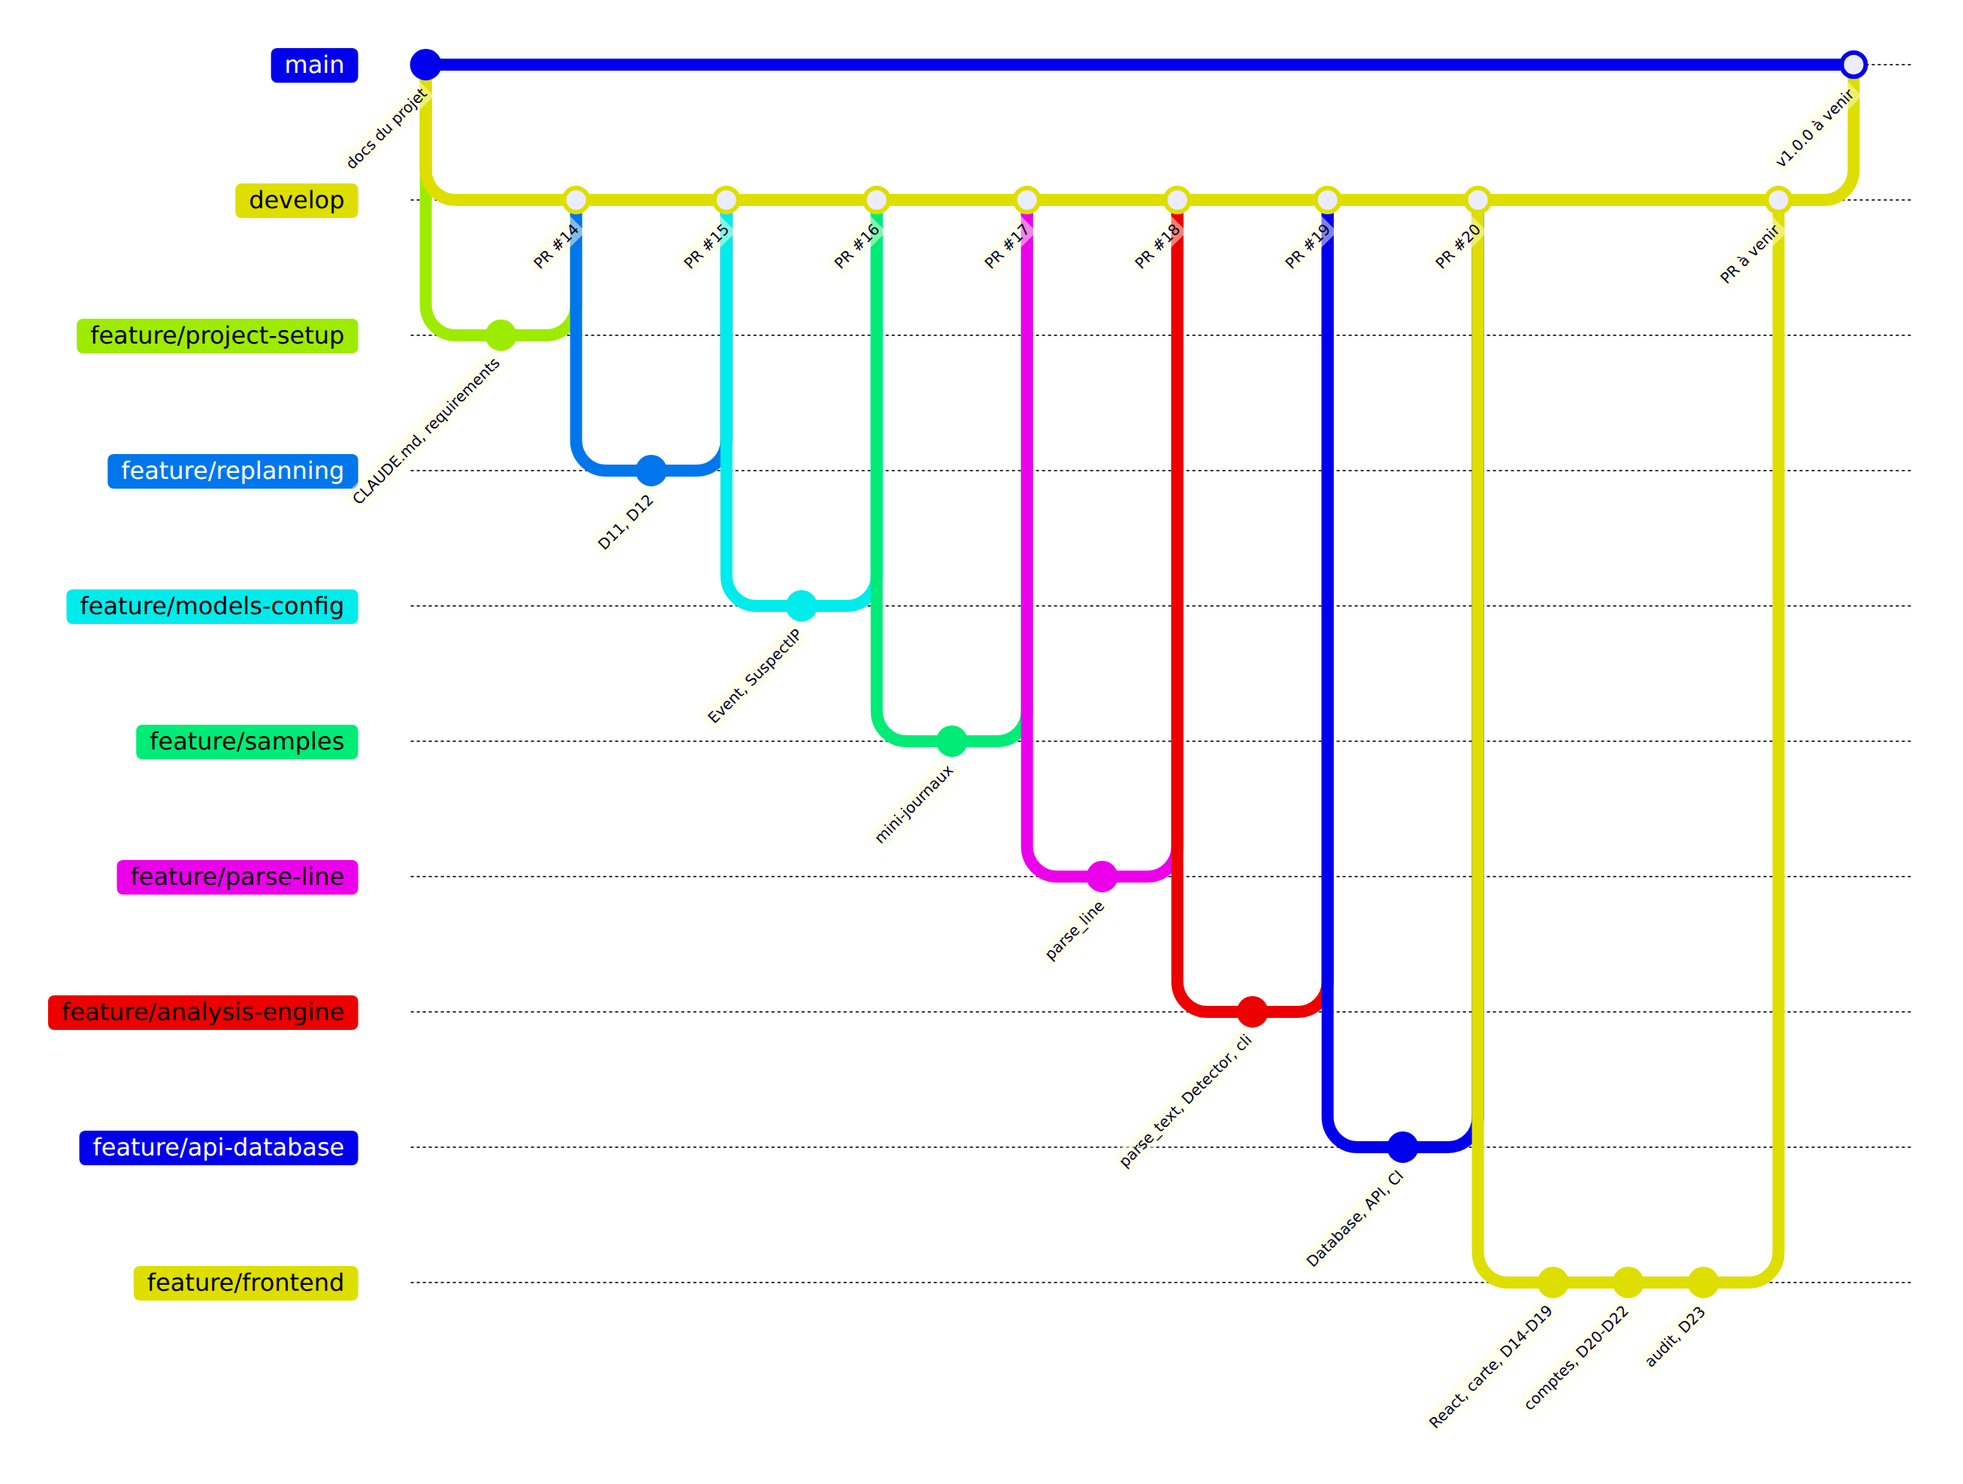
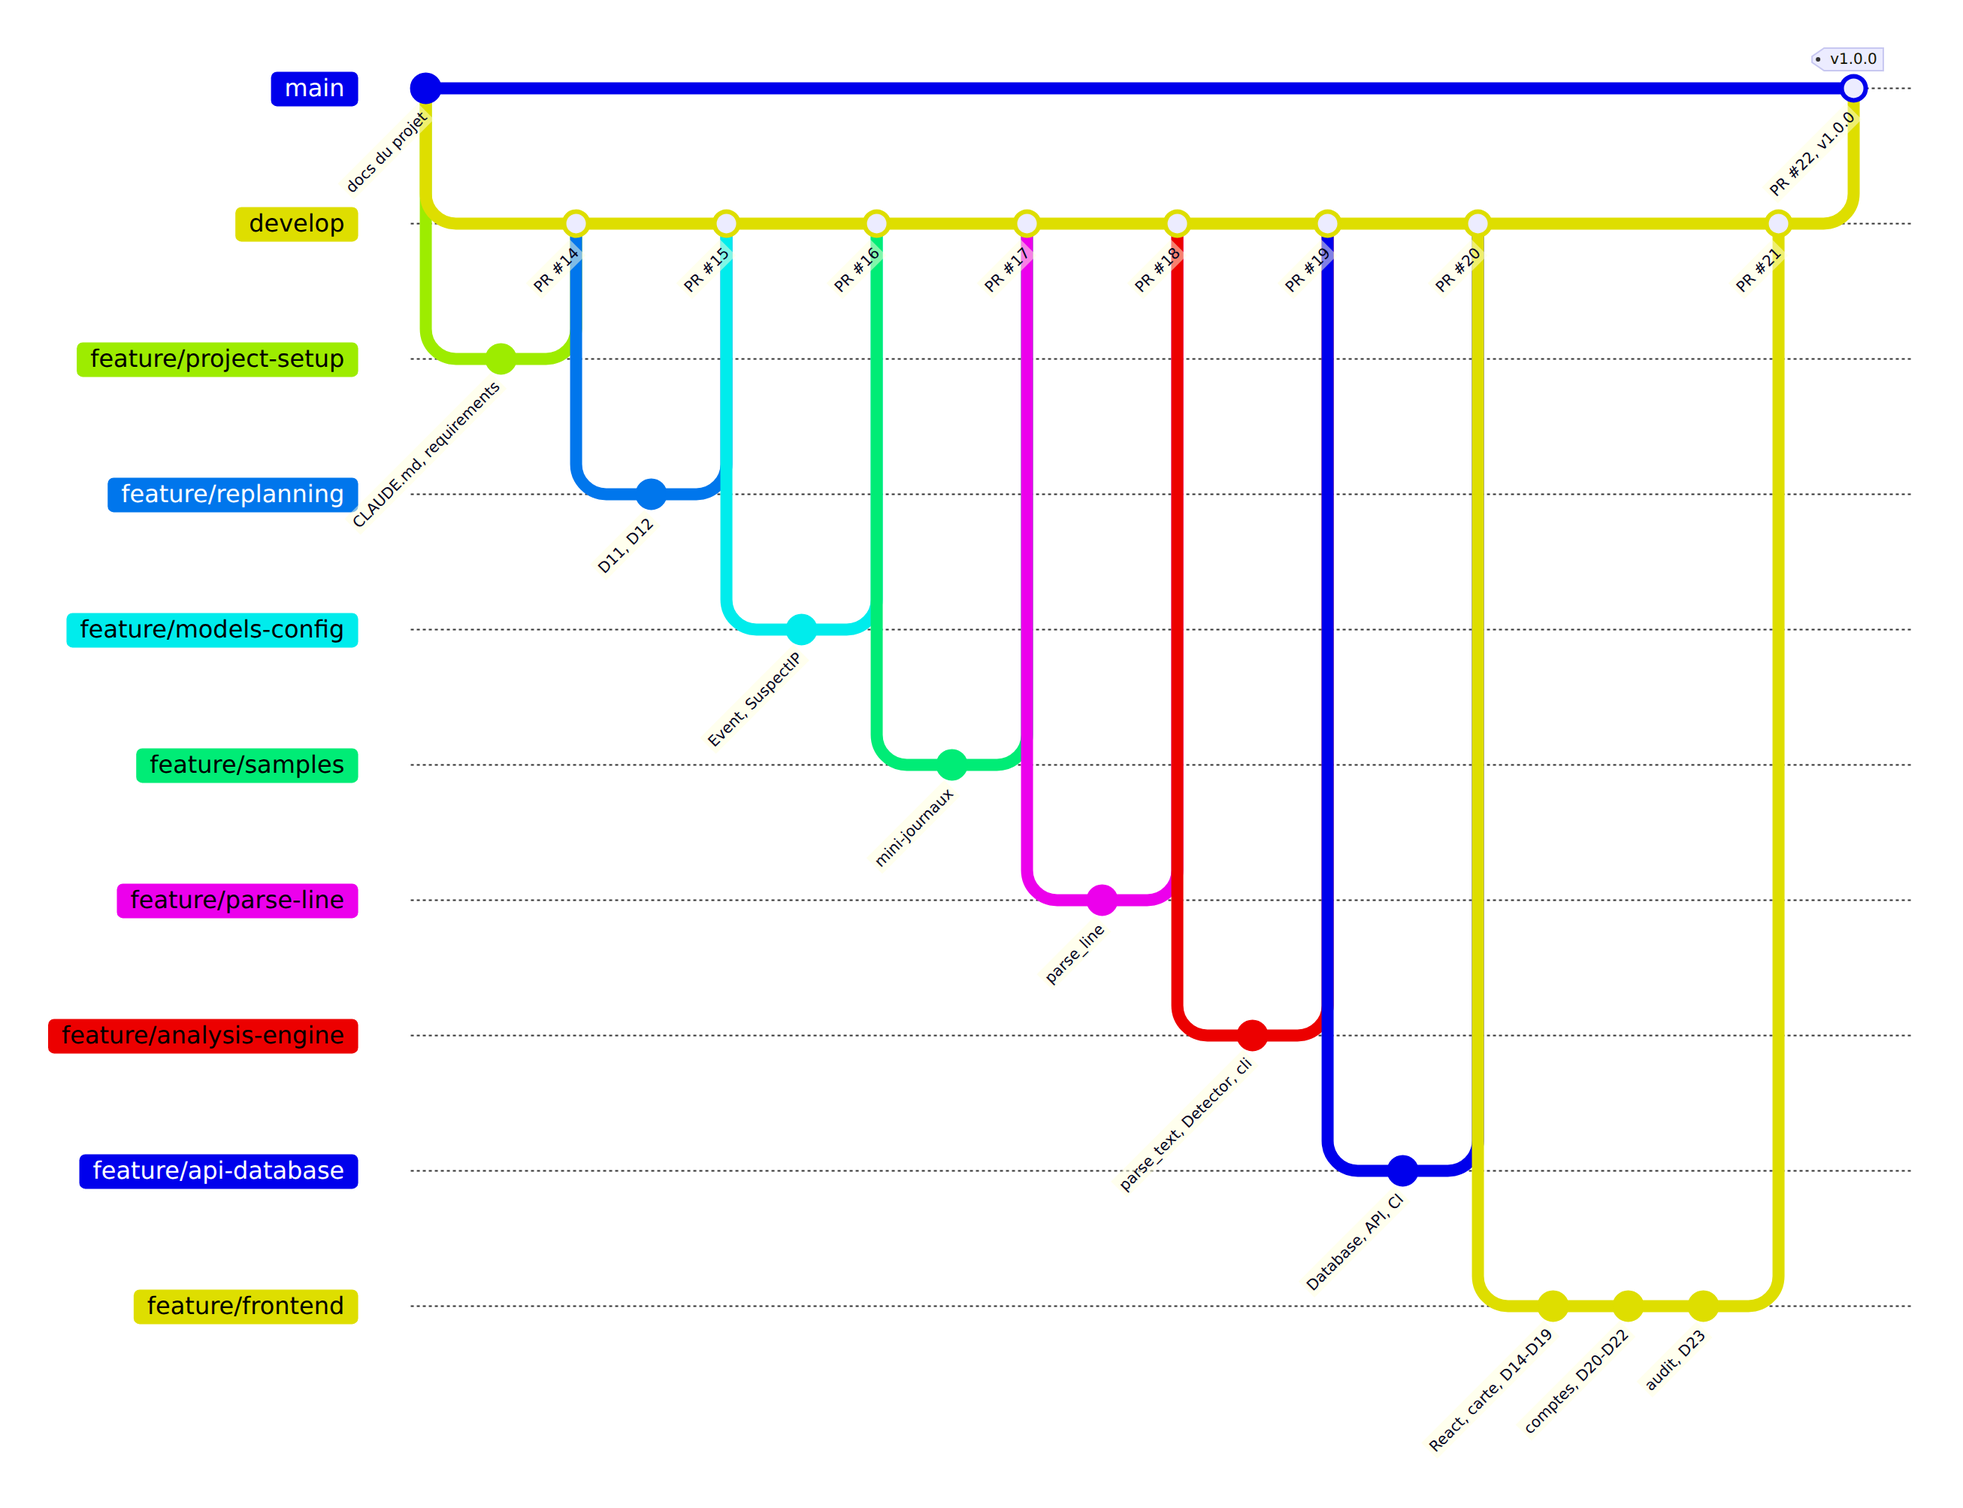
docs: align docs with v1.0.0 and present SentinelSSH as a complement to fail2ban

diff --git a/docs/decisions.md b/docs/decisions.md
@@ -4,12 +4,12 @@ Chaque décision importante est notée ici, avec les options envisagées et la r
 
 | ID | Date | Décision | Options envisagées | Raison |
 |---|---|---|---|---|
-| D1 | 29/09/2026 | Idée retenue : SentinelSSH | Les 6 idées du Stage 1 | Meilleur score (26/30) ; défensif, complet, différent de fail2ban |
+| D1 | 29/09/2026 | Idée retenue : SentinelSSH | Les 6 idées du Stage 1 | Meilleur score (26/30) ; défensif, complet, complémentaire de fail2ban (fail2ban exécute le blocage, SentinelSSH analyse et explique) |
 | D2 | 29/09/2026 | Analyse à la demande | Temps réel | Faisable en 4 semaines ; le temps réel passe en version future |
 | D3 | 29/09/2026 | Front-end en React (Vite) | HTML/CSS simple, Vue | Technologie JavaScript exigée ; standard le plus répandu |
 | D4 | 29/09/2026 | Back-end en Python/Flask | Node.js/Express, FastAPI, Django | Langage le mieux maîtrisé pour le cœur ; Flask est le plus léger |
 | D5 | 29/09/2026 | Base de données SQLite | PostgreSQL, MongoDB | Usage local, un seul utilisateur, données reliées |
-| D6 | 29/09/2026 | Blocage suggéré, pas automatique | Blocage automatique par iptables | Pas de droits root ; décision humaine ; différence avec fail2ban |
+| D6 | 29/09/2026 | Blocage suggéré, pas automatique | Blocage automatique par iptables | Pas de droits root ; décision humaine ; complète fail2ban, qui exécute le blocage en direct, au lieu de le refaire |
 | D7 | 30/09/2026 | Connexion par un compte administrateur unique | Aucune connexion, plusieurs comptes | Application sécurisée attendue par le titre RNCP ; reste simple |
 | D8 | 30/09/2026 | Mise en production locale avec Gunicorn | Serveurs de développement, Docker | Compétence « déploiement » ; une seule commande pour la démo |
 | D9 | 01/10/2026 | Back-end organisé en classes | Fonctions dans des modules | Consigne du Stage 3 ; une responsabilité par classe ; tests plus simples |
@@ -26,7 +26,7 @@ Chaque décision importante est notée ici, avec les options envisagées et la r
 | D20 | 28/10/2026 | SentinelSSH devient un site multi-comptes : inscription libre (nom + mot de passe de 12 caractères minimum, sans e-mail ni confirmation), chaque compte ne voit que ses analyses et ses récidivistes. Table `roles` (`admin`, `user`) ; `users.role_id` (chaque compte a un seul rôle) ; `analyses.user_id` avec `ON DELETE CASCADE`. L'administrateur gère les comptes (liste, suppression des comptes `user`) mais ne voit pas leurs analyses ; un compte admin ne peut pas être supprimé par l'API ; il n'est créé que par `flask create-admin`. Un `user` peut supprimer son compte (mot de passe redemandé). Noms uniques sans tenir compte des majuscules (`COLLATE NOCASE`), mot de passe de 12 à 128 caractères. Tentatives limitées par IP (5 échecs de connexion en 15 min, 5 inscriptions par heure, en mémoire). Remplace D7 et D15 ; la mise en ligne (serveur, HTTPS) reste à venir | Garder un administrateur unique (D7) ; admin qui voit toutes les analyses ; inscription avec e-mail et confirmation ; rôle stocké en texte dans `users` | L'objectif du projet est un site où chacun dépose son journal et profite des analyses. La sécurité repose sur un filtre `WHERE user_id = ?` dans chaque requête (une analyse d'un autre compte répond 404, comme un id inconnu). Pas d'e-mail : une donnée personnelle de moins à protéger (minimisation RGPD). Une table `roles` garantit par une clé étrangère qu'un compte a toujours un rôle valide. L'admin qui ne voit pas les analyses applique la minimisation : gérer un compte ne demande pas de lire ses données. Le compte est relu à chaque requête : un compte supprimé perd l'accès tout de suite. Ajouts après la revue de code : sans limite haute, un mot de passe de 40 Mo serait haché (déni de service) ; `Admin` pourrait imiter `admin` ; un admin pourrait effacer un autre admin et ses analyses ; un outil anti-force-brute doit se protéger lui-même de la force brute (compteurs en mémoire : simples, sans dépendance, suffisants avant la mise en ligne) |
 | D21 | 28/10/2026 | Profils de compte. Onglet « Mon compte » (`/compte`) pour le user ; pour l'admin, onglet « Comptes » (`/comptes`) où son compte est séparé en haut, puis la liste ; profil d'un user vu par l'admin à `/comptes/<id>`. Chacun modifie son nom et son mot de passe (`PATCH /api/auth/me`, ancien mot de passe redemandé) ; seul un user supprime son compte. L'admin change le nom, réinitialise le mot de passe et supprime le compte d'un user (`PATCH`/`DELETE /api/users/<id>`) et peut supprimer une de ses analyses sans la lire (`DELETE /api/users/<id>/analyses/<id>`) ; il n'en voit que la date et le nom du fichier, jamais le mot de passe. Un compte admin ne se gère jamais par `/api/users` (403). Ids des comptes et des analyses en UUID (uuid4) ; colonne `users.updated_at` | Suppression du compte sur la page d'analyse ; admin qui lit les analyses ; ids entiers ; `updated_at` sur toutes les tables ; 4 routes séparées pour le nom et le mot de passe | Une page « compte » rassemble ce qui concerne le compte (au lieu d'un bloc perdu sous l'analyse). L'admin doit pouvoir aider (renommer, réinitialiser, supprimer à la demande) sans accéder aux données : minimisation RGPD. Redemander l'ancien mot de passe empêche de voler un compte depuis une session ouverte ; ses échecs comptent dans la limite de connexion. Un UUID ne se devine pas et ne révèle pas le nombre de comptes ou d'analyses (en plus du filtre `user_id`) ; il supprime aussi le cas `SQLITE_MAX_INT`. `updated_at` seulement sur `users` : une analyse n'est jamais modifiée. `PATCH` = modifier une partie d'une ressource : une route au lieu de quatre |
 | D22 | 28/10/2026 | Sécurité avant la mise en ligne. **Session** : on garde la session signée de Flask (pas de JWT) ; sa durée de vie est lue dans `.env` (`SESSION_LIFETIME_MINUTES`, 60 min sans requête) ; elle est refusée si le nom ou le mot de passe a changé depuis son ouverture (`logged_at` comparé à `users.updated_at`, dates à la milliseconde). **CORS** : flask-cors sur `/api/*`, seulement les origines de `CORS_ORIGINS` (`.env`), cookie compris. **Base chiffrée** : SQLCipher (`sqlcipher3`), clé de 64 caractères hexadécimaux dans un fichier hors du dépôt (`DB_KEY_FILE`), que seul l'administrateur du serveur détient ; sans clé ou avec une mauvaise, le site refuse de démarrer. Exception à la règle « SQL paramétré » : `PRAGMA key` n'accepte pas `?`, la clé est donc écrite dans la commande, mais seulement après avoir vérifié qu'elle fait exactement 64 caractères 0-9 a-f | JWT dans un cookie HttpOnly ; JWT dans l'en-tête `Authorization` (localStorage) ; pas de CORS ; clé de la base écrite dans `.env` ; chiffrer seulement certaines colonnes | La session Flask est déjà un jeton signé (HMAC, itsdangerous) dans un cookie HttpOnly : un JWT y mettrait le même contenu avec la même signature ; son seul atout, un format lisible par d'autres programmes, ne sert pas ici. Le vrai manque était la durée de vie et la révocation : une session ouverte restait valide après une réinitialisation du mot de passe par l'admin. Le front et l'API ont la même origine (proxy Vite, puis Flask sert le front) : CORS ne sert qu'à autoriser explicitement un front ailleurs ; sans en-tête, le navigateur bloque tout le reste. Le chiffrement protège la base copiée seule (sauvegarde, disque, dépôt par erreur) : noms, dates et IP (données personnelles, RGPD) deviennent illisibles ; les mots de passe étaient déjà hachés. La clé hors du dépôt et hors de `.env` ne part jamais avec le code. Limite : sur le serveur en marche, la clé est en mémoire, le chiffrement ne protège pas d'une prise de contrôle du serveur |
-| D23 | 29/10/2026 | Audit complet. **Lecture du journal** : le nom d'utilisateur est libre ; l'IP est le dernier « from <IP> port <n> » de la ligne et doit être une vraie IP (module `ipaddress`). **Envoi** : un fichier vide, ou sans aucune tentative de connexion SSH, est refusé (400, rien d'enregistré) ; UTF-16 et BOM lus. **API** : un corps JSON qui n'est pas un objet répond 400. **Stockage** : comptes visés en JSON. **Compte** : renommer son compte redemande aussi le mot de passe actuel ; `create-admin` applique les règles de l'inscription | Garder `(\S+)` ; enregistrer une analyse vide avec le verdict « rien de suspect » ; refuser l'UTF-16 | L'attaquant choisit le nom d'utilisateur, que sshd écrit tel quel : avec le nom « x from 8.8.8.8 port 22 », l'ancien parser accusait 8.8.8.8 et proposait de la bloquer (usurpation, faille connue de fail2ban) ; un nom avec une espace rendait même l'attaque invisible. sshd écrit la vraie IP en dernier : `(.*)` gourmand la trouve. Un « rien de suspect » sur un mauvais fichier donnerait un faux sentiment de sécurité. PowerShell enregistre en UTF-16. Une virgule dans un nom le coupait en deux à l'affichage. Avec une session laissée ouverte, n'importe qui pouvait renommer le compte : son propriétaire ne connaissait plus son nom de connexion. Coût mesuré : 50 Mo lus en 4,6 s au lieu de 3,9 s |
+| D23 | 29/10/2026 | Audit complet. **Lecture du journal** : le nom d'utilisateur est libre ; l'IP est le dernier « from <IP> port <n> » de la ligne et doit être une vraie IP (module `ipaddress`). **Envoi** : un fichier vide, ou sans aucune tentative de connexion SSH, est refusé (400, rien d'enregistré) ; UTF-16 et BOM lus. **API** : un corps JSON qui n'est pas un objet répond 400. **Stockage** : comptes visés en JSON. **Compte** : renommer son compte redemande aussi le mot de passe actuel ; `create-admin` applique les règles de l'inscription | Garder `(\S+)` ; enregistrer une analyse vide avec le verdict « rien de suspect » ; refuser l'UTF-16 | L'attaquant choisit le nom d'utilisateur, que sshd écrit tel quel : avec le nom « x from 8.8.8.8 port 22 », l'ancien parser accusait 8.8.8.8 et proposait de la bloquer (usurpation d'IP) ; un nom avec une espace rendait même l'attaque invisible. sshd écrit la vraie IP en dernier : `(.*)` gourmand la trouve. Un « rien de suspect » sur un mauvais fichier donnerait un faux sentiment de sécurité. PowerShell enregistre en UTF-16. Une virgule dans un nom le coupait en deux à l'affichage. Avec une session laissée ouverte, n'importe qui pouvait renommer le compte : son propriétaire ne connaissait plus son nom de connexion. Coût mesuré : 50 Mo lus en 4,6 s au lieu de 3,9 s |
 | D24 | 30/10/2026 | Parsers OpenSSH rangés par version, avec repli de la plus récente à la plus ancienne : écartés pour la v1.0, notés comme évolution dans le README | Un dossier par version d'OpenSSH (`backend/features/logs_analysis/openssh/<version>/`), essayé du plus récent au plus ancien | Idée d'un ami développeur, pour être prêt si OpenSSH change son format. La version d'OpenSSH n'est pas écrite dans `auth.log`, d'où le repli. Mais le message lu (`Failed password for … from … port …`) n'a pas changé ; le seul changement récent (OpenSSH 9.8 : `sshd-session[…]` au lieu de `sshd[…]`) est déjà lu, car le parser ne regarde pas le nom du programme. Il n'y aurait donc qu'une version à ranger. Déplacer le parser 2 jours avant la revue changerait l'architecture à expliquer, sans corriger de bug : dépasse le MVP. Piste pour le RNCP |
 
 <!-- Ajouter une ligne à chaque décision qui change le périmètre, une technologie ou le planning. -->

diff --git a/README.md b/README.md
@@ -123,7 +123,7 @@ Diagramme et cardinalités : [docs/diagrammes.md](docs/diagrammes.md#base-de-don
 | Production | Gunicorn |
 | Qualité | pytest, pytest-cov, pycodestyle, ESLint, GitHub Actions, Postman |
 
-Chaque choix est justifié dans le [journal des décisions](docs/decisions.md) (D1 à D23).
+Chaque choix est justifié dans le [journal des décisions](docs/decisions.md) (D1 à D24).
 
 ## Installation (développement)
 
@@ -269,10 +269,10 @@ HTTPS) n'est pas encore prévue.
 
 ## Organisation du projet
 
-- **Branches** : `main` (stable, protégée ; recevra `develop` avec le tag `v1.0.0`), `develop` (intégration), `feature/…`
+- **Branches** : `main` (stable, protégée ; a reçu `develop` le 02/11, tag `v1.0.0`), `develop` (intégration), `feature/…`
   et `fix/…` (une par tâche). Schéma : [docs/diagrammes.md](docs/diagrammes.md#branches-git).
 - **Pull Requests** relues avec une checklist, **CI** GitHub Actions à chaque push.
-- **Sprints** d'une semaine : [plan des sprints](docs/sprints/sprint-planning.md), revues et rétrospectives dans `docs/sprints/`.
+- **Sprints** d'une semaine : [plan des sprints](docs/sprints/sprint-planning.md) ; chaque Pull Request décrit ce qu'elle change, et les PR #21 et #22 (v1.0.0) ont une section « Standup » (fait, appris, décisions, difficultés, suite) ; modèles de revue et de rétrospective dans `docs/sprints/`.
 - **Suivi** : GitHub Projects (kanban), issues et milestones ; bugs avec le label `bug`.
 - **Décisions** : [journal des décisions](docs/decisions.md).
 - **Documents du projet** : `docs/stages/` (Stages 1 à 4, conception complète).
@@ -296,7 +296,7 @@ HTTPS) n'est pas encore prévue.
 |---|---|
 | [docs/api.md](docs/api.md) | Les 16 routes : corps, réponses, erreurs |
 | [docs/diagrammes.md](docs/diagrammes.md) | Cas d'utilisation, architecture, base, classes, séquences, CI, branches, production (PNG dans `docs/images/`) |
-| [docs/decisions.md](docs/decisions.md) | Journal des décisions D1 à D23, avec les options écartées |
+| [docs/decisions.md](docs/decisions.md) | Journal des décisions D1 à D24, avec les options écartées |
 | [docs/testing/test-report.md](docs/testing/test-report.md) | Rapport de tests et audit complet (§12) |
 | [docs/testing/sentinelssh.postman_collection.json](docs/testing/sentinelssh.postman_collection.json) | Collection Postman |
 | [docs/sprints/sprint-planning.md](docs/sprints/sprint-planning.md) | Plan des sprints |

diff --git a/docs/diagrammes.md b/docs/diagrammes.md
@@ -417,14 +417,14 @@ gitGraph
     commit id: "comptes, D20-D22"
     commit id: "audit, D23"
     checkout develop
-    merge feature/frontend id: "PR à venir"
+    merge feature/frontend id: "PR #21"
     checkout main
-    merge develop id: "v1.0.0 à venir"
+    merge develop id: "PR #22, v1.0.0" tag: "v1.0.0"
 ```
 
-- `main` : stable, protégée ; elle recevra `develop` à la fin, avec le tag `v1.0.0`.
-- `develop` : intégration ; chaque fonctionnalité y arrive par une Pull Request (PR #14 à #20 fusionnées, la PR de
-  `feature/frontend` reste à ouvrir).
+- `main` : stable, protégée ; elle a reçu `develop` le 02/11/2026 (PR #22), avec le tag `v1.0.0`.
+- `develop` : intégration ; chaque fonctionnalité y arrive par une Pull Request (PR #14 à #21 fusionnées, puis
+  #23 pour la documentation).
 - `feature/…` et `fix/…` : une branche par tâche, créée depuis `develop`.
 
 ## Mise en production
@@ -446,7 +446,7 @@ flowchart LR
 
 ## Images PNG
 
-Copies des diagrammes ci-dessus, pour un document ou une présentation (régénérées le 29/10/2026).
+Copies des diagrammes ci-dessus, pour un document ou une présentation (régénérées le 29/10/2026 ; `branches-git.png` le 04/11/2026, après la v1.0.0).
 
 | Image | Diagramme |
 |---|---|

diff --git a/docs/sprints/sprint-planning.md b/docs/sprints/sprint-planning.md
@@ -15,7 +15,7 @@ Rôles (projet individuel, Anil AKER) : PM = chef de projet, SCM = gestion du co
 > - T4.11 (bonus) : la limitation des tentatives de connexion est faite (D20) ; l'export CSV ne l'est pas ;
 > - ajouts hors plan : géolocalisation et carte (D14), page de présentation (D15, D19), nouveau format de date (D16),
 >   profils de compte (D21), sécurité de la session et base chiffrée (D22), audit complet (D23) ;
-> - les tags de fin de sprint (`v0.1.0` à `v0.3.0`) n'ont pas été posés ; `v1.0.0` le sera à la fusion dans `main`.
+> - les tags de fin de sprint (`v0.1.0` à `v0.3.0`) n'ont pas été posés ; `v1.0.0` a été posé le 02/11 à la fusion dans `main` (PR #22).
 
 | Sprint | Dates | Objectif | Points prévus | Jalon |
 |---|---|---|---|---|
